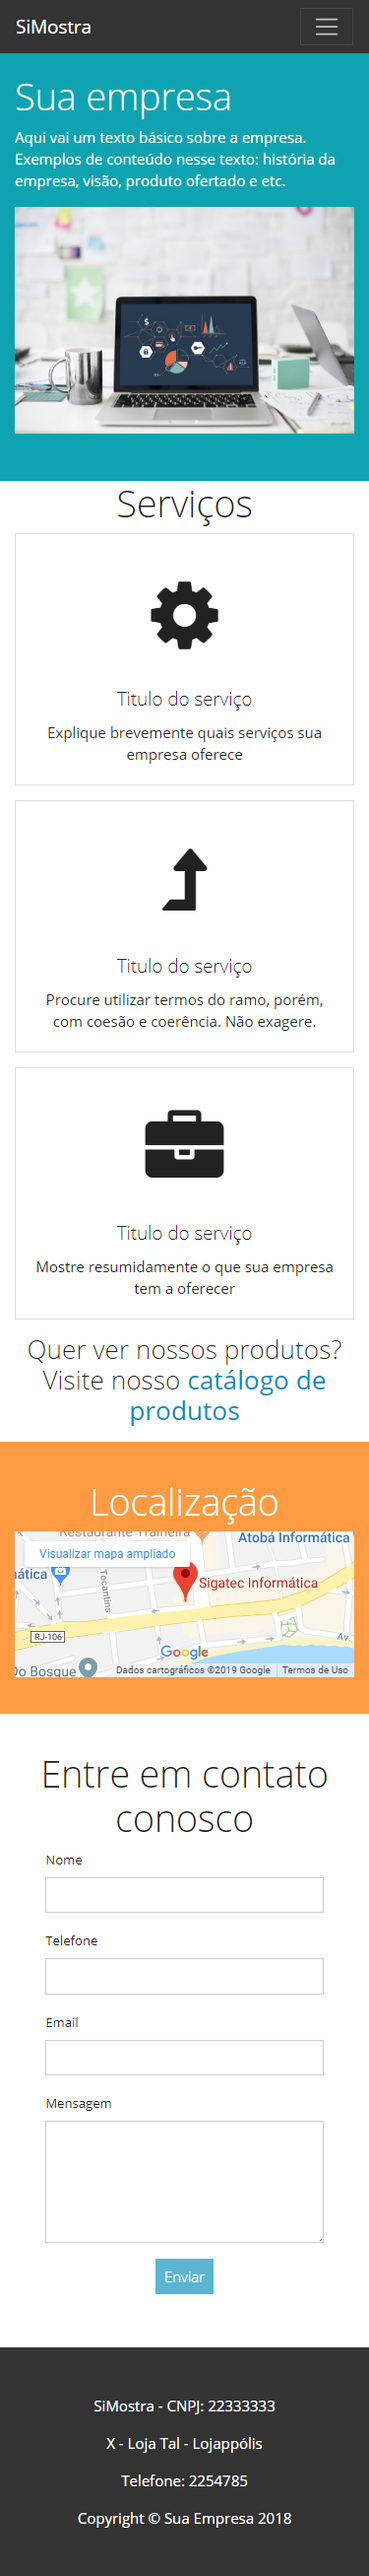
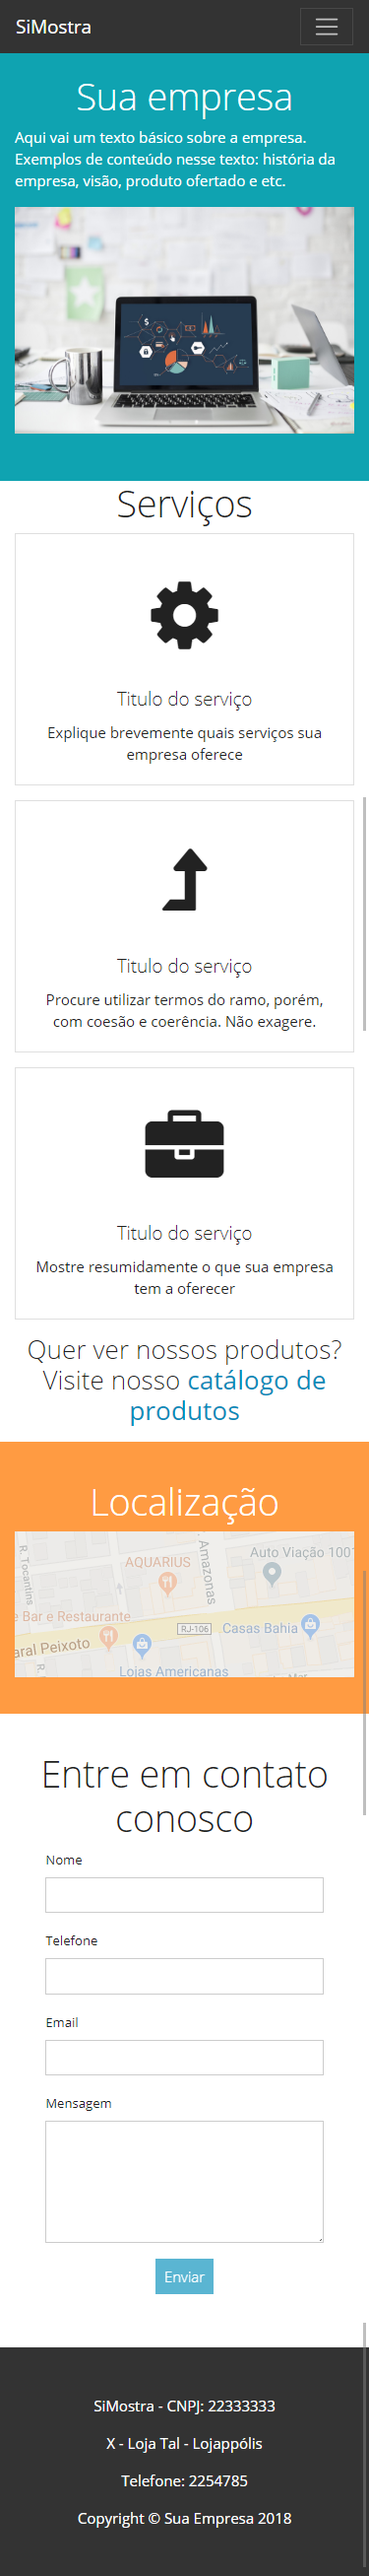
Correcao h1 pagina inicial infoEmpresa

diff --git a/src/app/infoempresa/infoempresa.component.scss b/src/app/infoempresa/infoempresa.component.scss
@@ -7,6 +7,10 @@ section {
   section {
     padding-top: 20%;
     padding-bottom: 20%;
+
+    h1 {
+        text-align: center;
+    }
   }
 }
 
